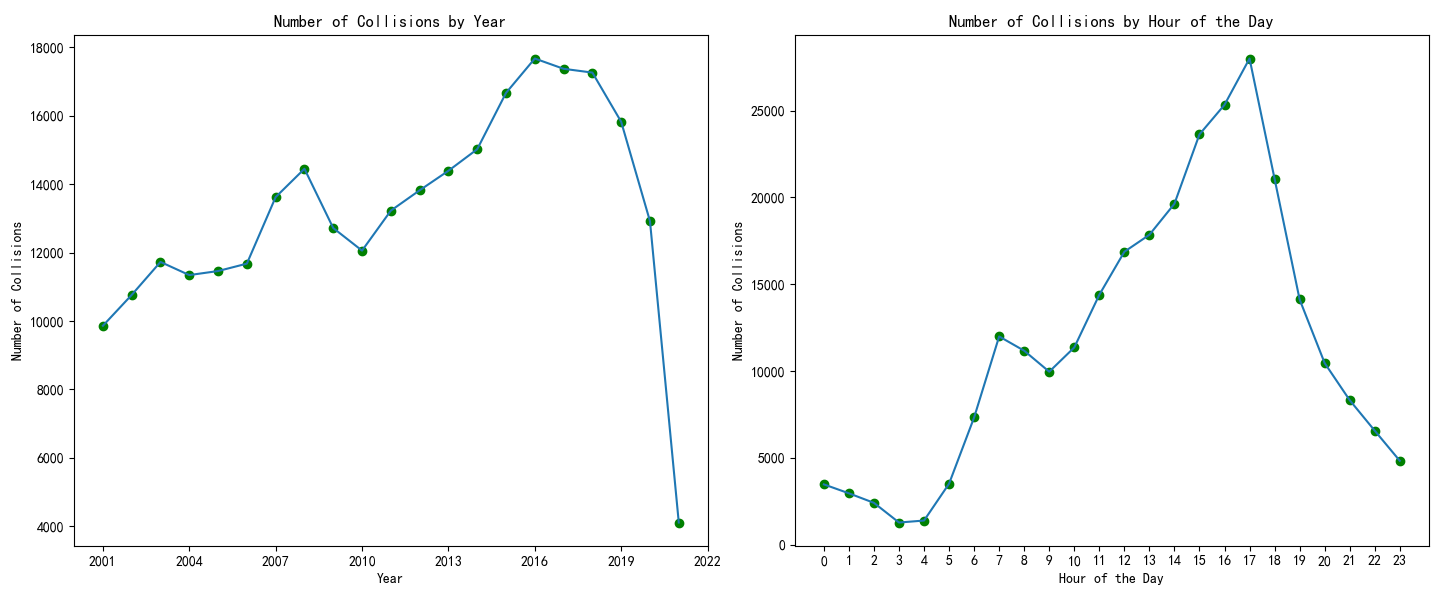
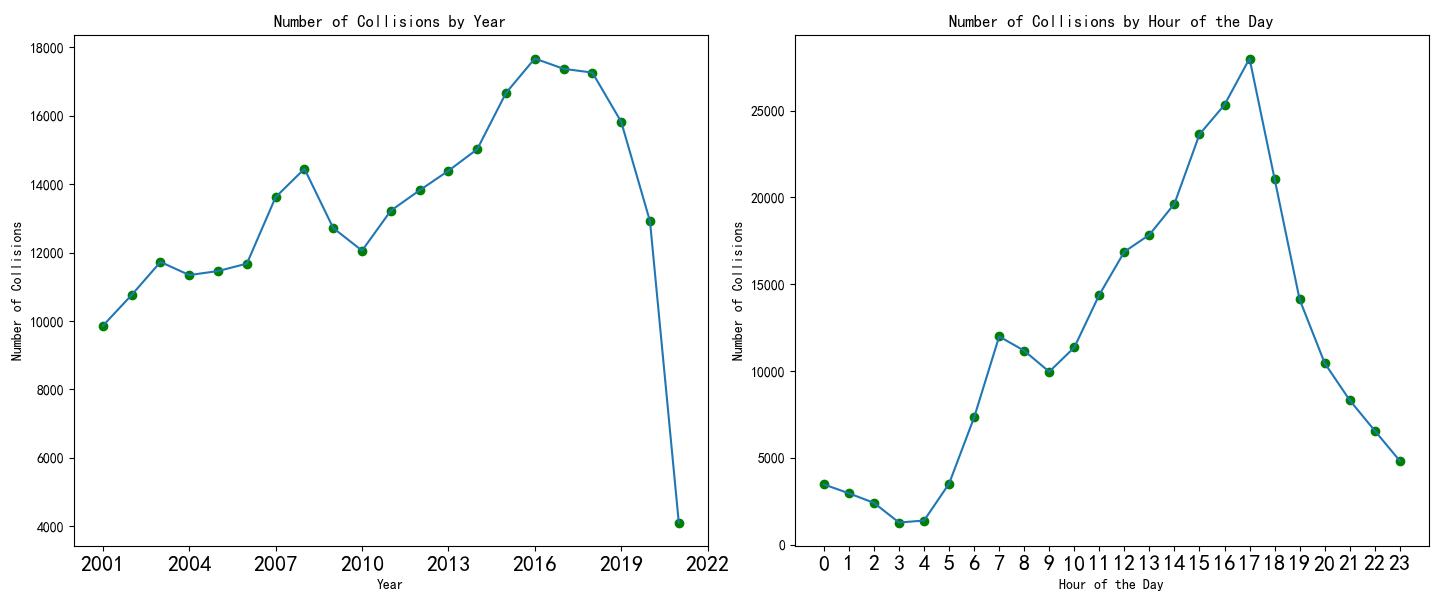
update code

diff --git a/Terminal_PJ/collision_analyse.py b/Terminal_PJ/collision_analyse.py
@@ -68,6 +68,9 @@ def time_statistics():
     axes[1].set_xticks(range(0, 24))
     axes[1].set_xticks(np.arange(0, 24, 1))  # 控制小时间隔为1小时
     plt.tight_layout()
+    # 调整刻度大小
+    axes[0].tick_params(axis='x', labelsize=16)  # 调整X轴标注点大小
+    axes[1].tick_params(axis='x', labelsize=16)  # 调整X轴标注点大小
     plt.show()
 
 
@@ -91,13 +94,16 @@ def location_statistics():
     fig, ax = plt.subplots()
     ax.scatter(position['longitude'], position['latitude'], s=3)
     for city, (lon, lat) in cities.items():
-        ax.scatter(lon, lat, color='black', zorder=5)
-        ax.text(lon, lat+0.2, city, color='black', fontsize=12, ha='center', va='center')
+        ax.scatter(lon, lat, color='red', zorder=5)
+        ax.text(lon, lat+0.2, city, color='black', fontsize=20, ha='center', va='center')
 
     # 设置标签
-    ax.set_xlabel('Longitude')
-    ax.set_ylabel('Latitude')
-    ax.set_title('Collision Positions')
+    ax.set_xlabel('Longitude', fontsize=18)
+    ax.set_ylabel('Latitude', fontsize=18)
+    ax.set_title('Collision Positions', fontsize=18)
+    # 调整刻度大小
+    plt.tick_params(axis='x', labelsize=18)  # 调整X轴标注点大小
+    plt.tick_params(axis='y', labelsize=18)  # 调整Y轴标注点大小
     plt.show()
 
 
@@ -117,13 +123,16 @@ def weather_statistics():
     fig, axes = plt.subplots(nrows=1, ncols=1, figsize=(8, 6))
     # 年份统计
     weather_condition.plot(kind='bar')
-    axes.set_title('Number of Collisions in Weathers')
-    axes.set_xlabel('Weather')
-    axes.set_ylabel('Number of Collisions')
+    axes.set_title('Number of Collisions in Weathers', fontsize=18)
+    axes.set_xlabel('Weather', fontsize=18)
+    axes.set_ylabel('Number of Collisions', fontsize=18)
     # 在每个柱上显示数据
     for i, value in enumerate(weather_condition):
         axes.text(i, value, str(value), ha='center', va='bottom')
-    axes.set_xticklabels(weather_condition.index, rotation=30)
+    axes.set_xticklabels(weather_condition.index, rotation=20)
+    # 调整刻度大小
+    plt.tick_params(axis='x', labelsize=14)  # 调整X轴标注点大小
+    plt.tick_params(axis='y', labelsize=24)  # 调整Y轴标注点大小
     plt.show()
 
 
@@ -175,5 +184,5 @@ def predict_severity():
 
 # location_statistics()
 # time_statistics()
-# weather_statistics()
-predict_severity()
+weather_statistics()
+# predict_severity()

diff --git a/Terminal_PJ/victim_analyse.py b/Terminal_PJ/victim_analyse.py
@@ -36,13 +36,16 @@ def victim_position():
     fig, axes = plt.subplots(nrows=1, ncols=1, figsize=(8, 6))
     # 年份统计
     victim_pos_counts.plot(kind='bar')
-    axes.set_title('Number of Victims in Seating Positions')
-    axes.set_xlabel('Victim Seating Position')
-    axes.set_ylabel('Number of Victims')
+    axes.set_title('Number of Victims in Seating Positions', fontsize=18)
+    axes.set_xlabel('Victim Seating Position', fontsize=18)
+    axes.set_ylabel('Number of Victims', fontsize=18)
     # 在每个柱上显示数据
     for i, value in enumerate(victim_pos_counts):
         axes.text(i, value, str(value), ha='center', va='bottom')
     axes.set_xticklabels(victim_pos_counts.index, rotation=20)
+    # 调整刻度大小
+    plt.tick_params(axis='x', labelsize=13)  # 调整X轴标注点大小
+    plt.tick_params(axis='y', labelsize=24)  # 调整Y轴标注点大小
     plt.show()
 
 

diff --git a/Terminal_PJ/报告.md b/Terminal_PJ/报告.md
@@ -46,12 +46,10 @@ conn = sqlite3.connect(filename)
 cursor = conn.cursor()
 
 # 只选取摩托车交通事故中的参与方
-parties_query = " SELECT * FROM parties WHERE case_id IN \
-(SELECT case_id FROM collisions WHERE motorcycle_collision == 1)"
+parties_query = " SELECT * FROM parties WHERE case_id IN (SELECT case_id FROM collisions WHERE motorcycle_collision == 1)"
 
 # 只选取摩托车交通事故中的受害人
-victims_query = " SELECT * FROM victims WHERE case_id IN \
-(SELECT case_id FROM collisions WHERE motorcycle_collision == 1)"
+victims_query = " SELECT * FROM victims WHERE case_id IN (SELECT case_id FROM collisions WHERE motorcycle_collision == 1)"
 
 # 只选取摩托车交通事故
 collisions_query = "SELECT * FROM collisions WHERE motorcycle_collision == 1"
